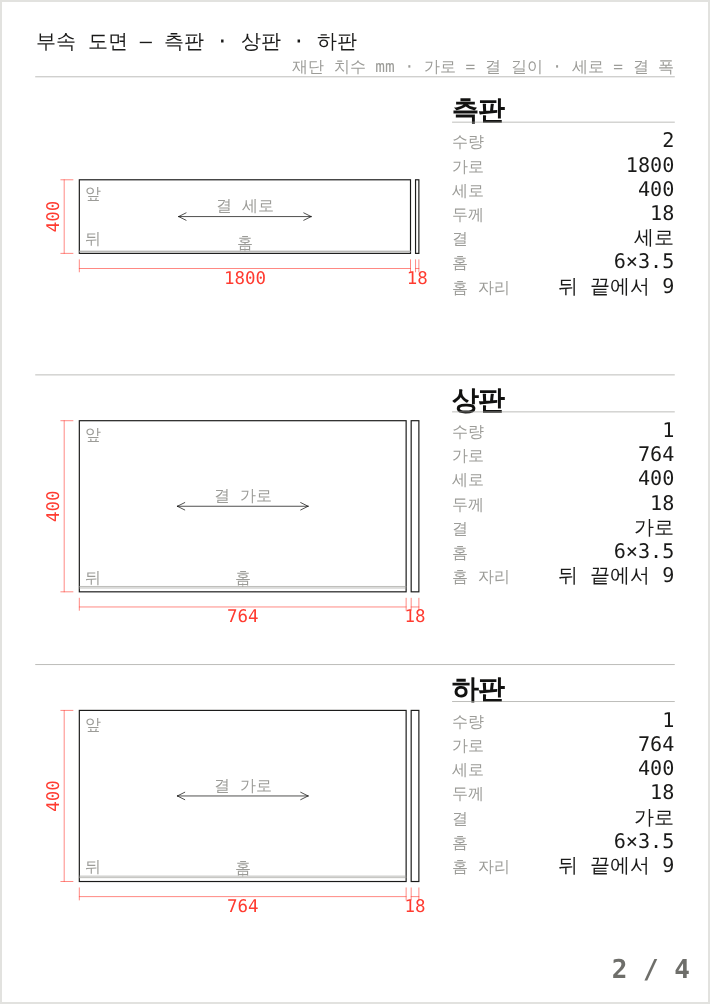
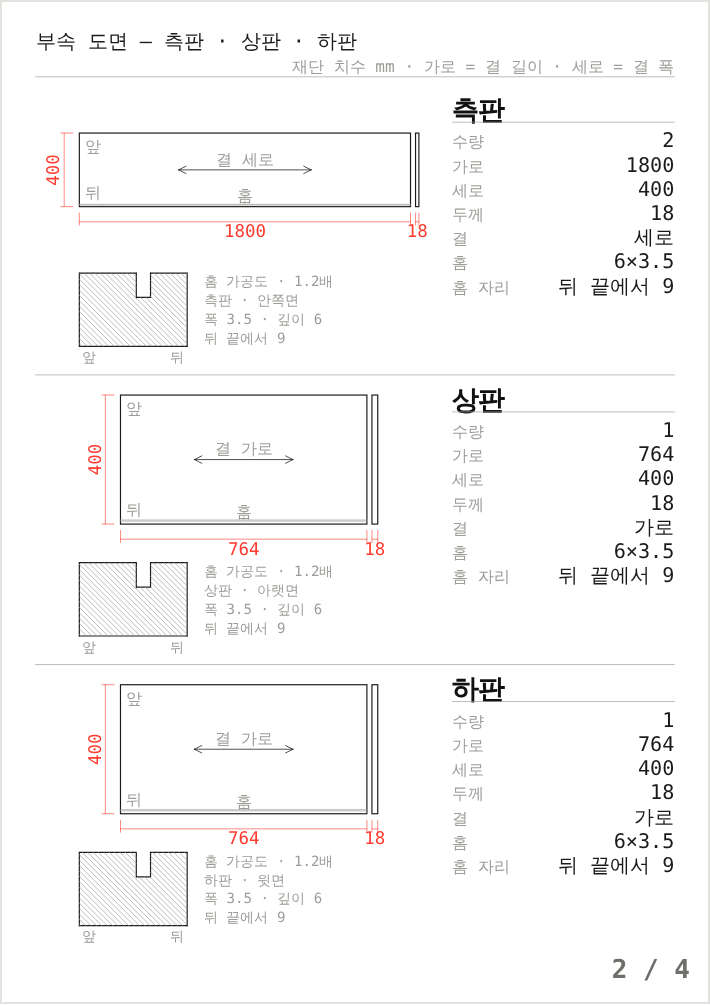
홈 가공도를 그 부속 쪽으로 옮긴다
1쪽(메인) 화면·저장 SVG 에서는 빼고, 부속마다 제 정보 아래에 제 홈 가공도를 붙인다.
DXF 에는 그대로 둔다(쪽 2) — 덮기 71,698 · 끼우기 108,233 바이트 그대로.

Claude-Session: https://claude.ai/code/session_01EKNRGFHGrx8LhDAjWNMSSY

diff --git a/index.html b/index.html
@@ -130,7 +130,8 @@ input[type=range]{width:100%;accent-color:var(--head)}
 .pg .t2{font-size:3.6px;fill:var(--ink)}
 .pg .t3{font-size:3px;fill:var(--dim)}
 .pg .t4{font-size:2.9px;fill:var(--ink3)}
-@media (max-width:760px){.pg .t1{font-size:8px}.pg .t2{font-size:6px}.pg .t3{font-size:5.2px}.pg .t4{font-size:4.8px}}
+.pg .t5{font-size:2.5px;fill:var(--ink3)}
+@media (max-width:760px){.pg .t1{font-size:8px}.pg .t2{font-size:6px}.pg .t3{font-size:5.2px}.pg .t4{font-size:4.8px}.pg .t5{font-size:4.2px}}
 .bom{grid-area:bom;display:flex;flex-direction:column}
 .bom table{width:100%;border-collapse:collapse;font-variant-numeric:tabular-nums}
 .bom th,.bom td{padding:7px 18px;text-align:right;border-bottom:1px solid var(--line2);white-space:nowrap}
@@ -215,7 +216,7 @@ dialog::backdrop{background:rgba(17,17,16,.4)}
   .svgwrap{overflow:visible;padding:0;flex:none}
   .svgwrap .page{width:210mm;height:297mm;aspect-ratio:auto;margin:0;border:0;break-after:page;page-break-after:always}
   .svgwrap .page:last-child{break-after:auto;page-break-after:auto}
-  .pg .t1{font-size:4.6px}.pg .t2{font-size:3.2px}.pg .t3{font-size:2.8px}.pg .t4{font-size:2.6px}
+  .pg .t1{font-size:4.6px}.pg .t2{font-size:3.2px}.pg .t3{font-size:2.8px}.pg .t4{font-size:2.6px}.pg .t5{font-size:2.3px}
   .svgwrap .toc b{font-size:8pt}.svgwrap .toc>div{font-size:9.5pt}
 }
 @media (prefers-reduced-motion:reduce){.toast{transition:none}}
@@ -577,9 +578,13 @@ function buildDrawing(s, m){
   // 홈은 6mm 안팎이라 1:1 로는 선 하나로 뭉갠다. 여섯 배로 키워 부속마다 한 칸씩 그린다.
   // 뒤 끝을 오른쪽에 두고 그 면을 잘라 본 그림이다 — 현장에서 이 그림만 보고 홈을 팔 수 있어야 한다.
   if (m.홈){
+    // 사장님 말씀 — 홈 가공도는 「메인」 이 아니라 그 부속 정보가 있는 곳에 붙는다.
+    // 그래서 화면·저장 SVG 에서는 뺐다(부속 쪽마다 제 홈 가공도가 붙는다). 쪽 2 = DXF 만.
+    // CAD 자료는 그대로 둔다 — 여기서 지우면 끼우기 DXF 108,233 바이트가 달라진다.
+    쪽 = 2;
     const M = 10, 보임 = 90, 간격 = 1100, gy = -1150;   // 10배 · 뒤 끝에서 90mm 만큼만 보인다
     const 칸들 = [['측판 2장', '안쪽면', Tside], ['상판', '아랫면', Ttop], ['하판', '윗면', Tbot]];
-    제목(`홈 가공도  GROOVE DETAIL · 10배`, (칸들.length-1)*간격/2 + 보임*M/2, gy + 760, 칸들.length*간격 - 200);
+    text(`홈 가공도  GROOVE DETAIL · 10배`, (칸들.length-1)*간격/2 + 보임*M/2, gy + 760, 46);
     칸들.forEach(([이름, 면, T], i) => {
       const x0 = i*간격, w = 보임*M, h = T*M, y0 = gy - h;
       const gx = x0 + w - (규칙.홈뒤살 + m.홈.폭)*M, gw = m.홈.폭*M, gd = m.홈.깊이*M;
@@ -613,6 +618,7 @@ function buildDrawing(s, m){
       text('뒤', x0 + w - 40, y0 - 80, TH, 'DIM');
       text(`${이름} · ${면}`, x0 + w/2, y0 - 200, 46);
     });
+    쪽 = 0;
   }
 
   // 부품표 + 표제란
@@ -751,6 +757,7 @@ function svgForFile(d){
    내보내는 SVG·DXF 는 이 쪽들을 모른다(덮기 DXF 71,698 바이트 그대로다). */
 const A4 = { W:210, H:297, 여백:10, 칸수:3, 정보:66 };
 const 부속차례 = ['측판','상판','하판','문짝','고정선반','이동선반','걸레받이','뒷판'];
+const 홈면 = { 측판:'안쪽면', 상판:'아랫면', 하판:'윗면' };   // 어느 면에 홈을 파는가 (1쪽 홈 가공도와 같다)
 // 글자 폭 어림 — 한글은 한 칸, 로마자·숫자는 0.62 칸으로 본다. 머리글이 넘칠지 재는 데만 쓴다.
 const 글자폭 = (str, em) => [...str].reduce((a, c) => a + (c.charCodeAt(0) > 127 ? em : em*0.62), 0);
 const 줄여서 = (str, em, 넓이) => { let t = str;
@@ -780,6 +787,16 @@ function 부속쪽SVG(행들, m){
   const 선 = (ax,ay,bx,by,c) => o.push(`<line class="${c}" x1="${n2(ax)}" y1="${n2(ay)}" x2="${n2(bx)}" y2="${n2(by)}"/>`);
   const 글 = (str,x,y,c,a) => o.push(`<text class="${c}" x="${n2(x)}" y="${n2(y)}" text-anchor="${a || 'middle'}">${esc(String(str))}</text>`);
   const 가로치수 = (ax,bx,y,str) => { 선(ax,y-2.6,ax,y+1,'dim'); 선(bx,y-2.6,bx,y+1,'dim'); 선(ax,y,bx,y,'dim'); 글(str,(ax+bx)/2,y+3.4,'t3'); };
+  // 45° 빗금 — 잘린 자리를 나타낸다
+  const 빗금 = (bx,by,bw,bh) => { const sp = 1.6;
+    for (let c = Math.ceil((by - (bx+bw))/sp)*sp; c <= by + bh - bx; c += sp){
+      const pts = []; let v;
+      v = bx + c;      if (v >= by && v <= by+bh) pts.push([bx, v]);
+      v = bx + bw + c; if (v >= by && v <= by+bh) pts.push([bx+bw, v]);
+      v = by - c;      if (v >= bx && v <= bx+bw) pts.push([v, by]);
+      v = by + bh - c; if (v >= bx && v <= bx+bw) pts.push([v, by+bh]);
+      if (pts.length >= 2) 선(pts[0][0], pts[0][1], pts[1][0], pts[1][1], 'ln2');
+    } };
   const 세로치수 = (ay,by,x,str) => { 선(x-1,ay,x+2.6,ay,'dim'); 선(x-1,by,x+2.6,by,'dim'); 선(x,ay,x,by,'dim');
     o.push(`<text class="t3" x="${n2(x-2.6)}" y="${n2((ay+by)/2)}" text-anchor="middle" transform="rotate(-90 ${n2(x-2.6)} ${n2((ay+by)/2)})">${esc(str)}</text>`); };
   // 머리글에 이 쪽에 든 부속 이름을 적는다 — 훑어 내리다 눈에 걸려야 한다.
@@ -792,7 +809,9 @@ function 부속쪽SVG(행들, m){
     if (i) 선(x0, ty, x1, ty, 'ln2');
     const ix = x1 - A4.정보;                                  // 정보 칸 왼쪽 끝
     const dx = x0 + 13, dy = ty + 6;                          // 왼쪽 13 은 세로 치수 자리
-    const dw = (ix - 10) - dx, dh = 칸높 - 6 - 14;             // 아래 14 는 가로 치수 자리
+    // 홈 파는 부속은 칸 아래쪽을 홈 가공도에 내준다 — 그 부속 정보가 있는 자리에 그 부속 홈이 붙는다.
+    const 홈칸 = (r.홈 && m.홈) ? Math.min(32, (칸높 - 20)*0.42) : 0;
+    const dw = (ix - 10) - dx, dh = 칸높 - 6 - 14 - 홈칸;      // 아래 14 는 가로 치수 자리
     // 겉면과 두께(측면)를 나란히 놓는다. 두 개가 같은 배율로 들어가게 배율을 잡는다.
     const k = Math.min((dw - 1.5) / (r.L + r.T), dh / r.W);
     const w = r.L*k, h = r.W*k, tw = r.T*k;
@@ -821,6 +840,24 @@ function 부속쪽SVG(행들, m){
     글(r.name, ix, ty + 8, 't1', 'start');
     선(ix, ty + 11, x1, ty + 11, 'ln2');
     줄.forEach(([이름, 값], j) => { const y = ty + 17 + j*7.2; 글(이름, ix, y, 't4', 'start'); 글(값, x1, y, 't2', 'end'); });
+    // ── 이 부속의 홈 가공도 (끼우기에서 홈 파는 부속만) ──────────────
+    if (홈칸){
+      const sh = 홈칸 - 6, 보임 = 규칙.홈뒤살 + m.홈.폭 + 14;   // 뒤 끝에서 이만큼만 잘라 본다
+      const 배 = Math.min(dw*0.5 / 보임, sh / r.T);
+      const sw = 보임*배, st = r.T*배;
+      const sx = dx, sy = ty + 칸높 - 8.5 - st;
+      const gx = sx + sw - (규칙.홈뒤살 + m.홈.폭)*배, gw = m.홈.폭*배, gd = m.홈.깊이*배;
+      // 홈 파인 면이 위, 뒤 끝이 오른쪽이다
+      선(sx, sy+st, sx+sw, sy+st, 'ln'); 선(sx, sy, sx, sy+st, 'ln'); 선(sx+sw, sy, sx+sw, sy+st, 'ln');
+      선(sx, sy, gx, sy, 'ln'); 선(gx+gw, sy, sx+sw, sy, 'ln');
+      선(gx, sy, gx, sy+gd, 'ln'); 선(gx, sy+gd, gx+gw, sy+gd, 'ln'); 선(gx+gw, sy+gd, gx+gw, sy, 'ln');
+      빗금(sx, sy, gx-sx, st); 빗금(gx, sy+gd, gw, st-gd); 빗금(gx+gw, sy, sx+sw-(gx+gw), st);
+      글('앞', sx + 3, sy + st + 3.2, 't5'); 글('뒤', sx + sw - 3, sy + st + 3.2, 't5');
+      const lx = sx + sw + 5, ly = sy + st/2;
+      [`홈 가공도 · ${배.toFixed(1)}배`, `${r.name} · ${홈면[r.name] || ''}`,
+       `폭 ${fmt(m.홈.폭)} · 깊이 ${fmt(m.홈.깊이)}`, `뒤 끝에서 ${fmt(규칙.홈뒤살)}`]
+        .forEach((str, j) => 글(str, lx, ly - 8.4 + j*5.6, 't5', 'start'));
+    }
   });
   return `<svg class="pg" xmlns="http://www.w3.org/2000/svg" viewBox="0 0 ${A4.W} ${A4.H}" preserveAspectRatio="xMidYMid meet" stroke-linecap="round">${o.join('')}</svg>`;
 }
